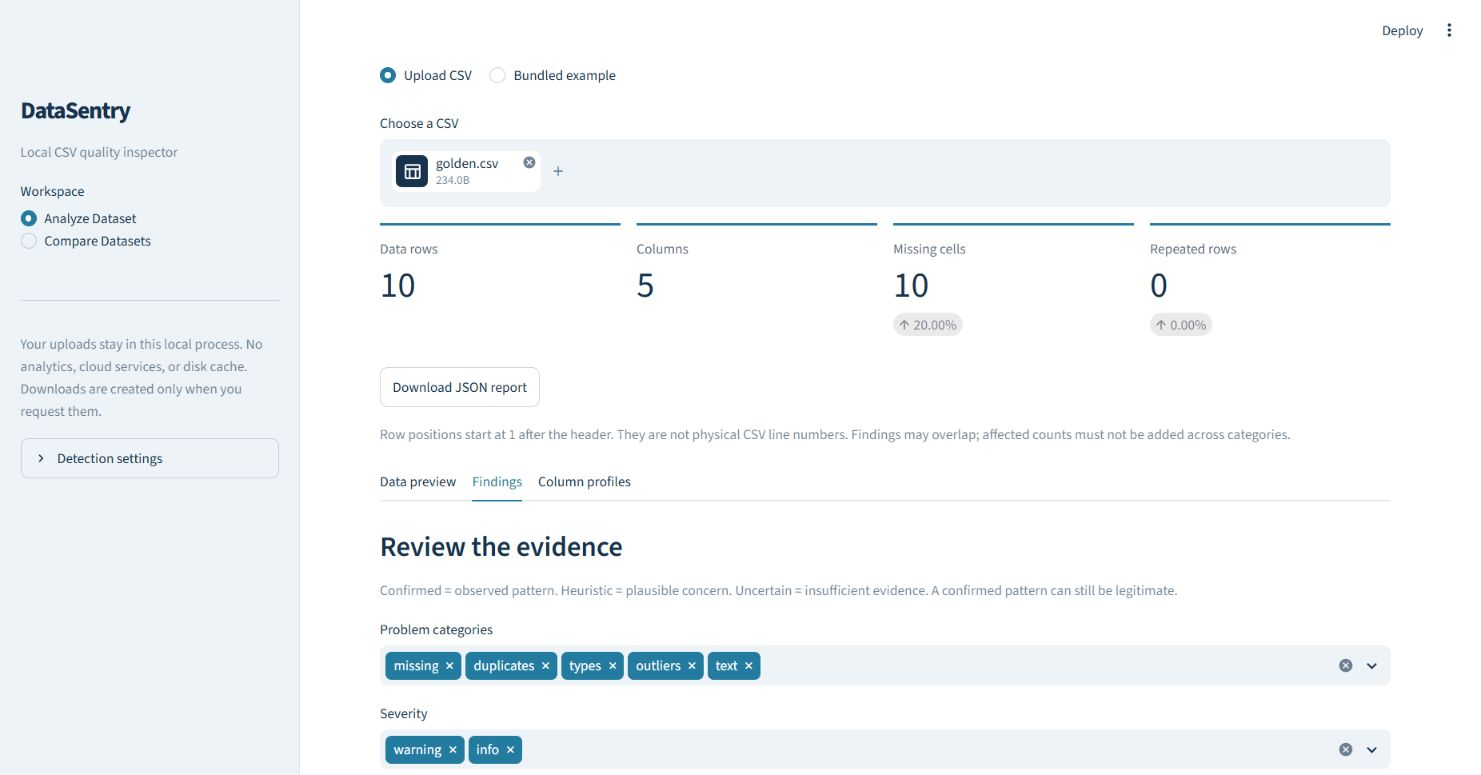
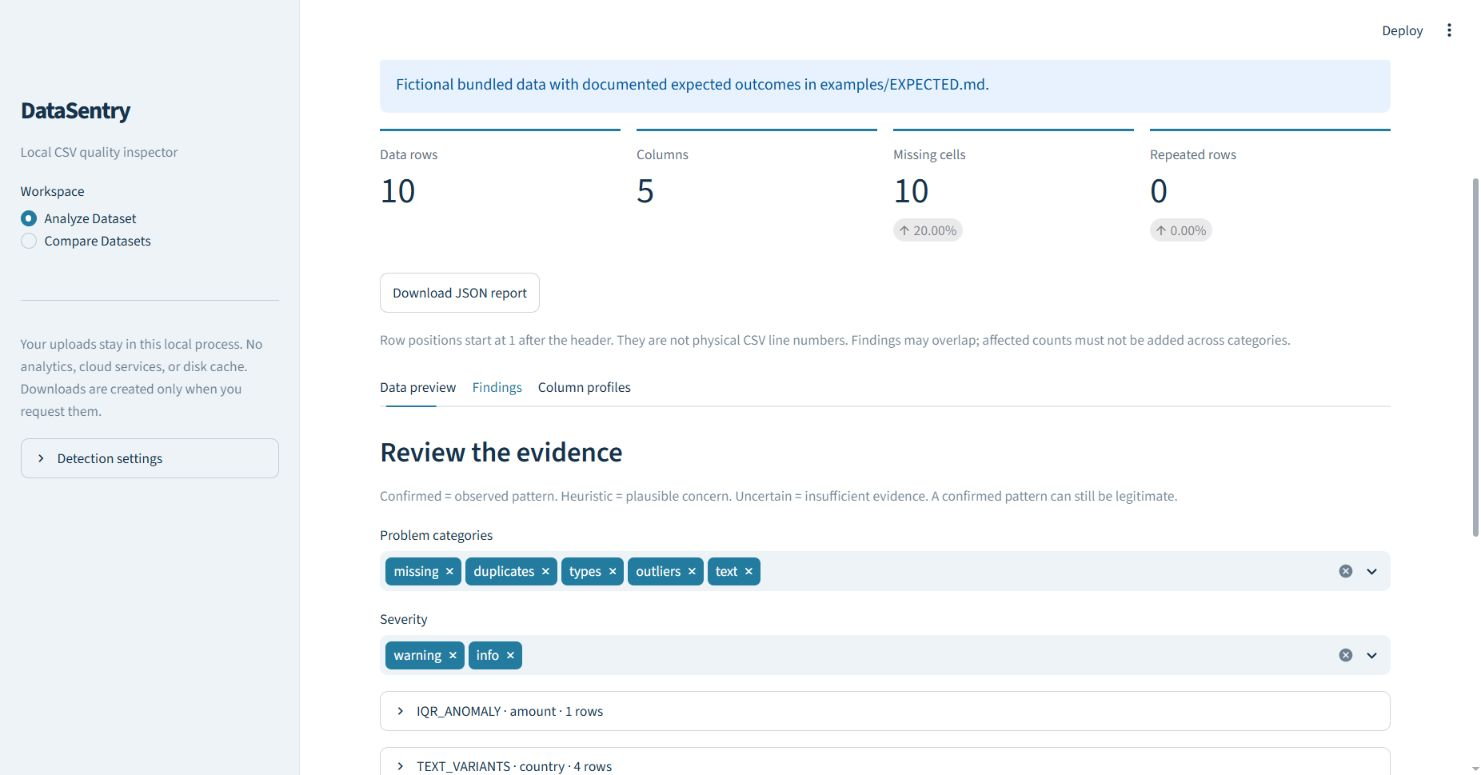
Record resumed DataSentry delivery verification

diff --git a/docs/VERIFICATION.md b/docs/VERIFICATION.md
@@ -55,3 +55,18 @@ Work stopped at the user's explicit request on 2026-10-19. Implementation and
 local verification are saved in a local Git checkpoint. Public repository
 creation, push, remote-commit verification, and hosted CI have not been
 performed. No release tag was created. Resume only on a new user instruction.
+
+## Resumed delivery check
+
+The user explicitly requested continuation on 2026-10-19. The checkout was clean
+at `93576f1`; application code and tests remained unchanged. A fresh local
+Streamlit process rendered the golden fixture with the expected summary and
+findings. The analysis browser download check again produced no observable
+saved artifact, so its file-save status remains unverified. Download payload
+validation and the verified comparison artifact remain separate evidence.
+
+The authorized public destination is
+<https://github.com/Emrankh2018/datasentry>. Hosted results are available through
+the repository's [CI workflow](https://github.com/Emrankh2018/datasentry/actions/workflows/ci.yml).
+Local source/secret review and final branch identity checks are required for
+the push. No release tag is part of this delivery.

diff --git a/CHECKPOINT.md b/CHECKPOINT.md
@@ -16,3 +16,12 @@ Stopped at the user's request on 2026-10-19.
   when checked. Repository creation/publishing and hosted CI remain undone.
 - Local generated reports, graph cache, and virtual environment are ignored.
 - No release tag. No further work until the user requests resumption.
+
+## Resumed delivery
+
+The user requested continuation on 2026-10-19. The checkpoint was clean and the
+application code matched the verified revision. GitHub delivery resumed under
+the original mission. The analysis download payload remains covered by tests,
+while native browser analysis file-save completion remains unverified after a
+fresh local-browser check. See the verification receipt and GitHub Actions for
+current delivery evidence.
